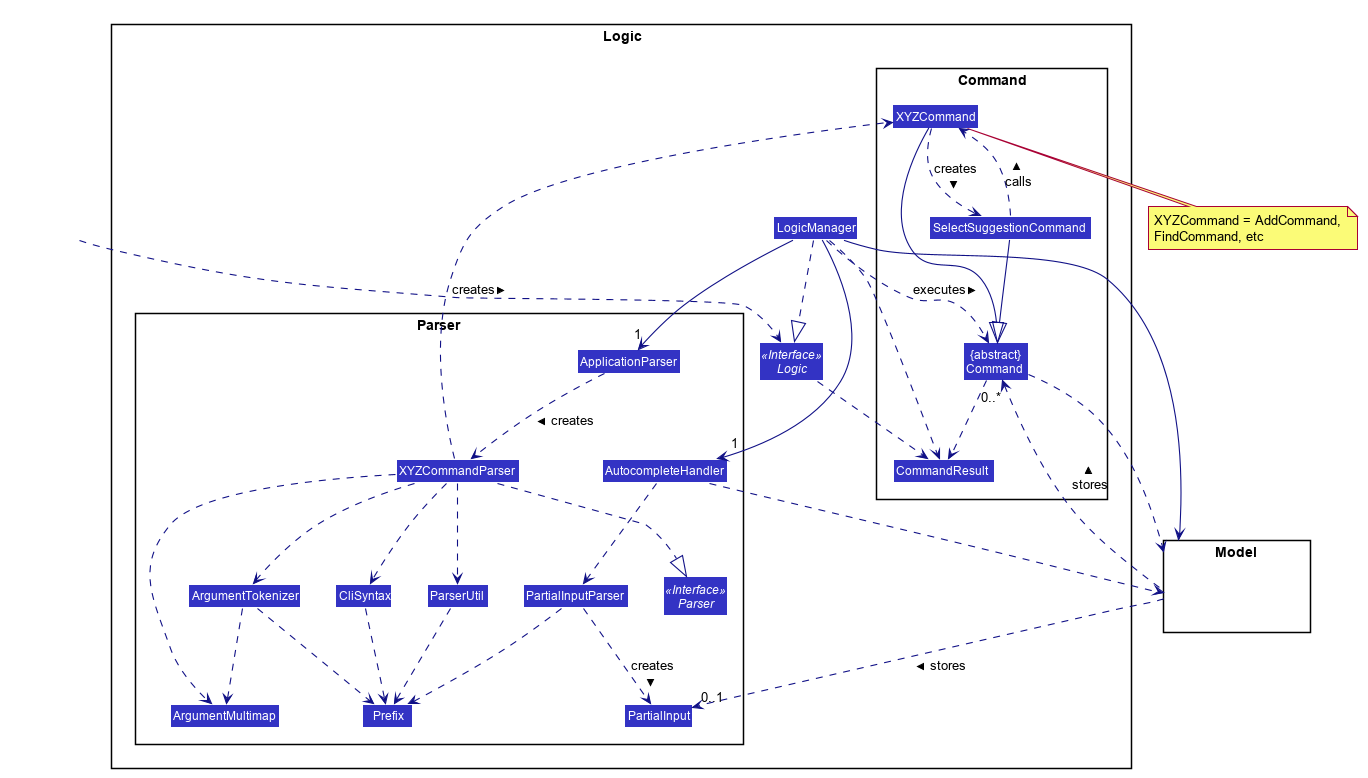
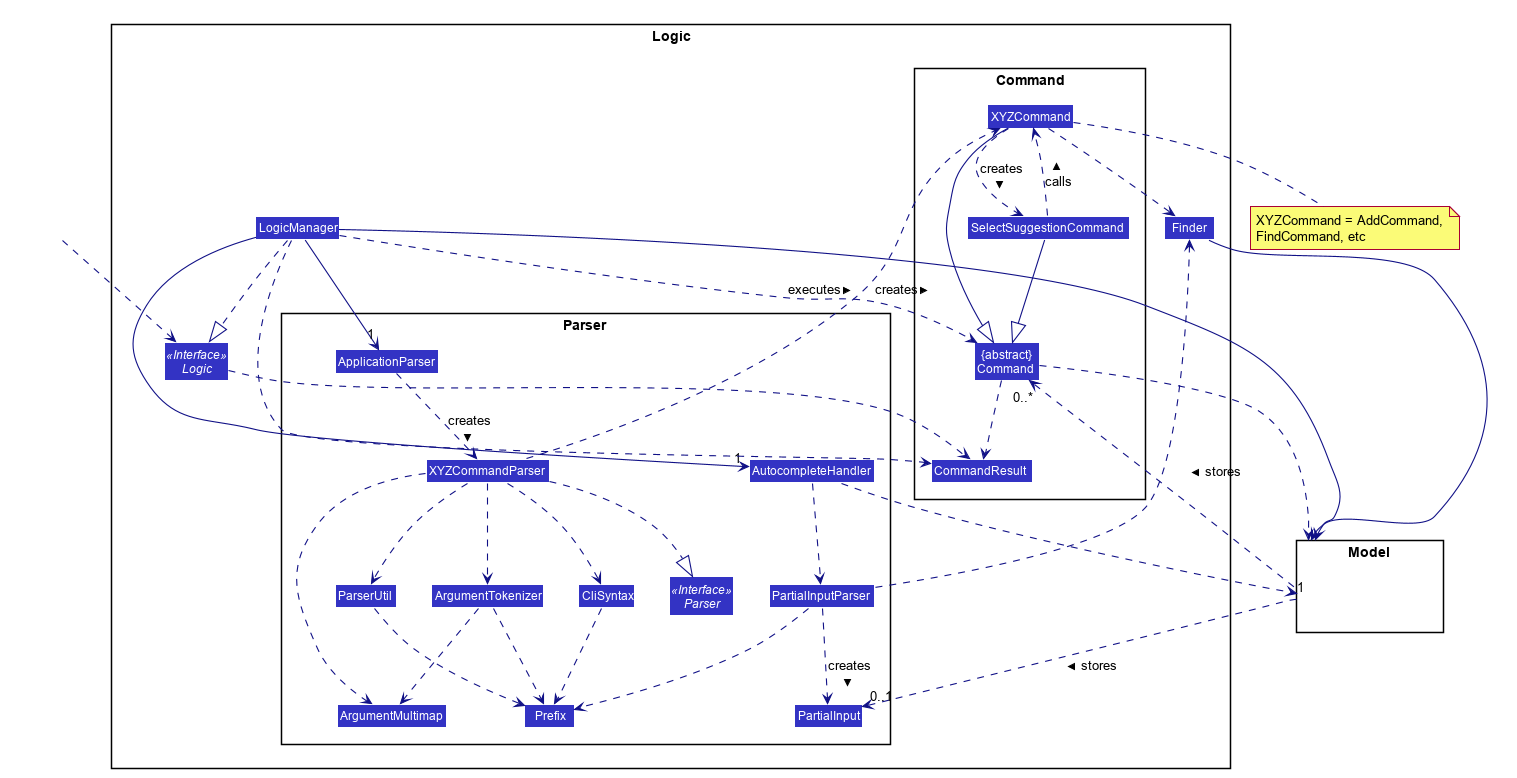
Rebuild pages at d3f4e3d6965a6cf74022339f74a64843b19ebbbf

diff --git a/DeveloperGuide.html b/DeveloperGuide.html
@@ -215,9 +215,9 @@ The following class plays an important role at the architecture level:</p>
 <h3 id="Design-Logic"><a class="link" href="#Design-Logic">2.3. Logic component</a></h3>
 <div id="fig-LogicClassDiagram" class="imageblock">
 <div class="content">
-<img src="images/LogicClassDiagram.png" alt="LogicClassDiagram">
+<img src="images/LogicRegularCommandClassDiagram.png" alt="LogicRegularCommandClassDiagram">
 </div>
-<div class="title">Figure 5. Structure of the Logic Component</div>
+<div class="title">Figure 5. Structure of the Logic Component (for regular commands only)</div>
 </div>
 <div class="paragraph">
 <p><strong>API</strong> :
@@ -521,6 +521,12 @@ The user is not allowed to change the tutorial or module that the student is in.
 <div class="paragraph">
 <p>Autocorrect lets T.A.rence find similar commands to the user&#8217;s input, allowing it to catch minor typing mistakes.</p>
 </div>
+<div class="imageblock">
+<div class="content">
+<img src="images/LogicAutocorrectClassDiagram.png" alt="LogicAutocorrectClassDiagram">
+</div>
+<div class="title">Figure 9. Structure of the Autocorrect portion of the Logic component</div>
+</div>
 <div class="sect3">
 <h4 id="implementation-5"><a class="link" href="#implementation-5">3.3.1. Implementation</a></h4>
 <div class="paragraph">
@@ -574,6 +580,12 @@ The lifelines for <code>SelectSuggestionCommand</code> and <code>AddStudentComma
 <h3 id="autocomplete-feature"><a class="link" href="#autocomplete-feature">3.4. Autocomplete feature</a></h3>
 <div class="paragraph">
 <p>Autoomplete provides an autofill feature similar to that found in most common CLIs.</p>
+</div>
+<div class="imageblock">
+<div class="content">
+<img src="images/LogicAutocompleteClassDiagram.png" alt="LogicAutocompleteClassDiagram">
+</div>
+<div class="title">Figure 10. Structure of the Autocomplete portion of the Logic component</div>
 </div>
 <div class="sect3">
 <h4 id="implementation-6"><a class="link" href="#implementation-6">3.4.1. Implementation</a></h4>
@@ -1983,4 +1995,4 @@ Expected: Similar to previous.</p>
 </div>
 </div>
 </div>
-</div></div><div id="footer"><div class="container"><div id="footer-text">Last updated 2019-10-26 07:57:50 UTC</div></div></div></body></html>
+</div></div><div id="footer"><div class="container"><div id="footer-text">Last updated 2019-10-29 06:03:08 UTC</div></div></div></body></html>

diff --git a/tutorials/RemovingFields.html b/tutorials/RemovingFields.html
@@ -175,4 +175,4 @@ While keeping the <code>address</code> field in the json files does not cause th
 <p>You can go through each individual <code>json</code> file and manually remove the <code>address</code> field.</p>
 </div>
 </div>
-</div></div><div id="footer"><div class="container"><div id="footer-text">Last updated 2019-10-26 07:57:50 UTC</div></div></div></body></html>
+</div></div><div id="footer"><div class="container"><div id="footer-text">Last updated 2019-10-29 06:03:08 UTC</div></div></div></body></html>

diff --git a/Testing.html b/Testing.html
@@ -90,4 +90,4 @@ e.g. <code>seedu.tarence.logic.LogicManagerTest</code></p>
 <div class="title">Figure 1. <code>Accessibility</code> permission is granted to <code>IntelliJ IDEA</code></div>
 </div>
 </div>
-</div></div><div id="footer"><div class="container"><div id="footer-text">Last updated 2019-10-26 07:57:50 UTC</div></div></div></body></html>
+</div></div><div id="footer"><div class="container"><div id="footer-text">Last updated 2019-10-29 06:03:08 UTC</div></div></div></body></html>

diff --git a/team/johndoe.html b/team/johndoe.html
@@ -422,4 +422,4 @@ If the <code>currentStatePointer</code> is at index <code>addressBookStateList.s
 <p><em>{Optionally, you may include other projects in your portfolio.}</em></p>
 </div>
 </div>
-</div></div><div id="footer"><div class="container"><div id="footer-text">Last updated 2019-10-26 07:57:50 UTC</div></div></div></body></html>
+</div></div><div id="footer"><div class="container"><div id="footer-text">Last updated 2019-10-29 06:03:08 UTC</div></div></div></body></html>

diff --git a/ContactUs.html b/ContactUs.html
@@ -9,4 +9,4 @@
 <p><strong>Contributing</strong> : We welcome pull requests. Follow the process described <a href="https://github.com/oss-generic/process">here</a></p>
 </li>
 </ul>
-</div></div><div id="footer"><div class="container"><div id="footer-text">Last updated 2019-10-26 07:57:50 UTC</div></div></div></body></html>
+</div></div><div id="footer"><div class="container"><div id="footer-text">Last updated 2019-10-29 06:03:08 UTC</div></div></div></body></html>

diff --git a/LearningOutcomes.html b/LearningOutcomes.html
@@ -474,4 +474,4 @@ of storages, but different number of storages (e.g. save to both a text file and
 </div>
 </div>
 </div>
-</div></div><div id="footer"><div class="container"><div id="footer-text">Last updated 2019-10-26 07:57:50 UTC</div></div></div></body></html>
+</div></div><div id="footer"><div class="container"><div id="footer-text">Last updated 2019-10-29 06:03:08 UTC</div></div></div></body></html>

diff --git a/SettingUp.html b/SettingUp.html
@@ -180,4 +180,4 @@ Having both Travis and AppVeyor ensures your App works on both Unix-based platfo
 </div>
 </div>
 </div>
-</div></div><div id="footer"><div class="container"><div id="footer-text">Last updated 2019-10-26 07:57:50 UTC</div></div></div></body></html>
+</div></div><div id="footer"><div class="container"><div id="footer-text">Last updated 2019-10-29 06:03:08 UTC</div></div></div></body></html>

diff --git a/UserGuide.html b/UserGuide.html
@@ -534,4 +534,4 @@ e.g. <code>add n/James Ho p/22224444 e/jamesho@example.com a/123, Clementi Rd, 1
 </div>
 </div>
 </div>
-</div></div><div id="footer"><div class="container"><div id="footer-text">Last updated 2019-10-26 07:57:50 UTC</div></div></div></body></html>
+</div></div><div id="footer"><div class="container"><div id="footer-text">Last updated 2019-10-29 06:03:08 UTC</div></div></div></body></html>

diff --git a/UsingCoveralls.html b/UsingCoveralls.html
@@ -111,4 +111,4 @@ If you have not set up Travis CI, see <a href="UsingTravis.html">UsingTravis.ado
 </ol>
 </div>
 </div>
-</div></div><div id="footer"><div class="container"><div id="footer-text">Last updated 2019-10-26 07:57:50 UTC</div></div></div></body></html>
+</div></div><div id="footer"><div class="container"><div id="footer-text">Last updated 2019-10-29 06:03:08 UTC</div></div></div></body></html>

diff --git a/UsingGradle.html b/UsingGradle.html
@@ -228,4 +228,4 @@ See <code>build.gradle</code> &#8594; <code>allprojects</code> &#8594; <code>dep
 </ul>
 </div>
 </div>
-</div></div><div id="footer"><div class="container"><div id="footer-text">Last updated 2019-10-26 07:57:50 UTC</div></div></div></body></html>
+</div></div><div id="footer"><div class="container"><div id="footer-text">Last updated 2019-10-29 06:03:08 UTC</div></div></div></body></html>

diff --git a/UsingNetlify.html b/UsingNetlify.html
@@ -138,4 +138,4 @@ The publish directory is the directory in which the built HTML documentation res
 </ol>
 </div>
 </div>
-</div></div><div id="footer"><div class="container"><div id="footer-text">Last updated 2019-10-26 07:57:50 UTC</div></div></div></body></html>
+</div></div><div id="footer"><div class="container"><div id="footer-text">Last updated 2019-10-29 06:03:08 UTC</div></div></div></body></html>

diff --git a/Documentation.html b/Documentation.html
@@ -226,4 +226,4 @@ The SE-EDU team does not provide support for modified template files.</p>
 </table>
 </div>
 </div>
-</div></div><div id="footer"><div class="container"><div id="footer-text">Last updated 2019-10-26 07:57:50 UTC</div></div></div></body></html>
+</div></div><div id="footer"><div class="container"><div id="footer-text">Last updated 2019-10-29 06:03:08 UTC</div></div></div></body></html>
